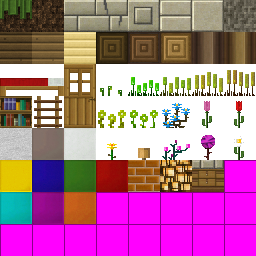
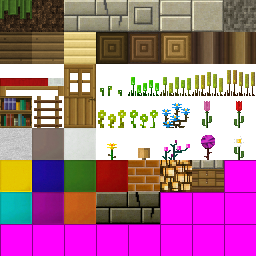
Improved ruins

Changed region(s): [[0.375, 0.75, 0.625, 0.875]]

diff --git a/js/Game.js b/js/Game.js
@@ -11,7 +11,7 @@ function gamePreload() {
     // Loading tilemaps
     //game.load.tilemap("start", "assets/start.json", null, Phaser.Tilemap.TILED_JSON)
     game.load.json("start", "assets/start.json");
-    game.load.json("house", "assets/house.json");
+    game.load.json("ruins", "assets/ruins.json");
 
     // Loading Images
     game.load.image("tiles", "assets/tiles.png");
@@ -102,11 +102,11 @@ function gameCreate() {
     layer1 = map.create("layer1", WORLD_WIDTH, WORLD_HEIGHT, BLOCK_WIDTH, BLOCK_HEIGHT);
     layer1.resizeWorld();
 
-    map.setCollisionBetween(0, 999, true, layer1);
+    map.setCollision([0, 1, 2, 3, 4, 5, 6, 7, 8, 9, 10, 11, 12, 13, 14, 15, 16, 17, 20, 26, 28, 32, 33, 34, 40, 41, 42, 43, 44, 45, 46, 48, 49, 50], true, layer1);
 
     addMap("start");
-    addMap("house");
-    addMap("house");
+    addMap("ruins");
+    addMap("ruins");
 
     player = game.add.sprite(40, 40, "player");
     player.scale.setTo(0.25, 0.25);
